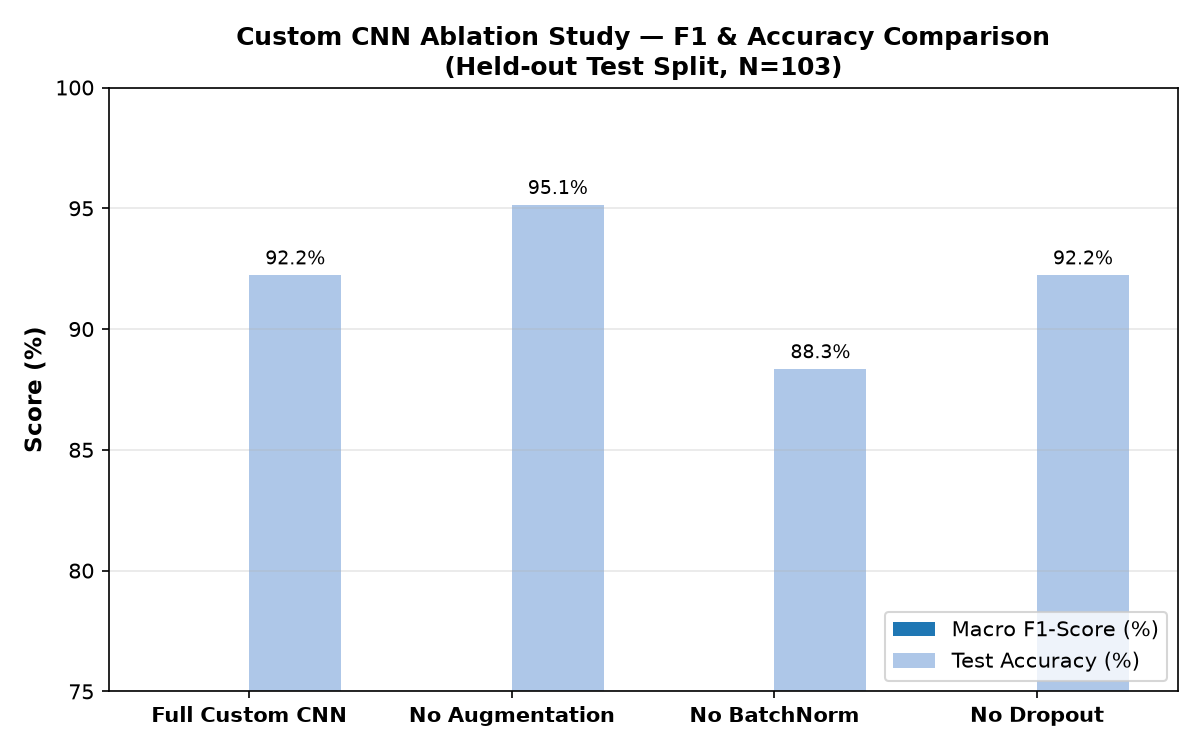
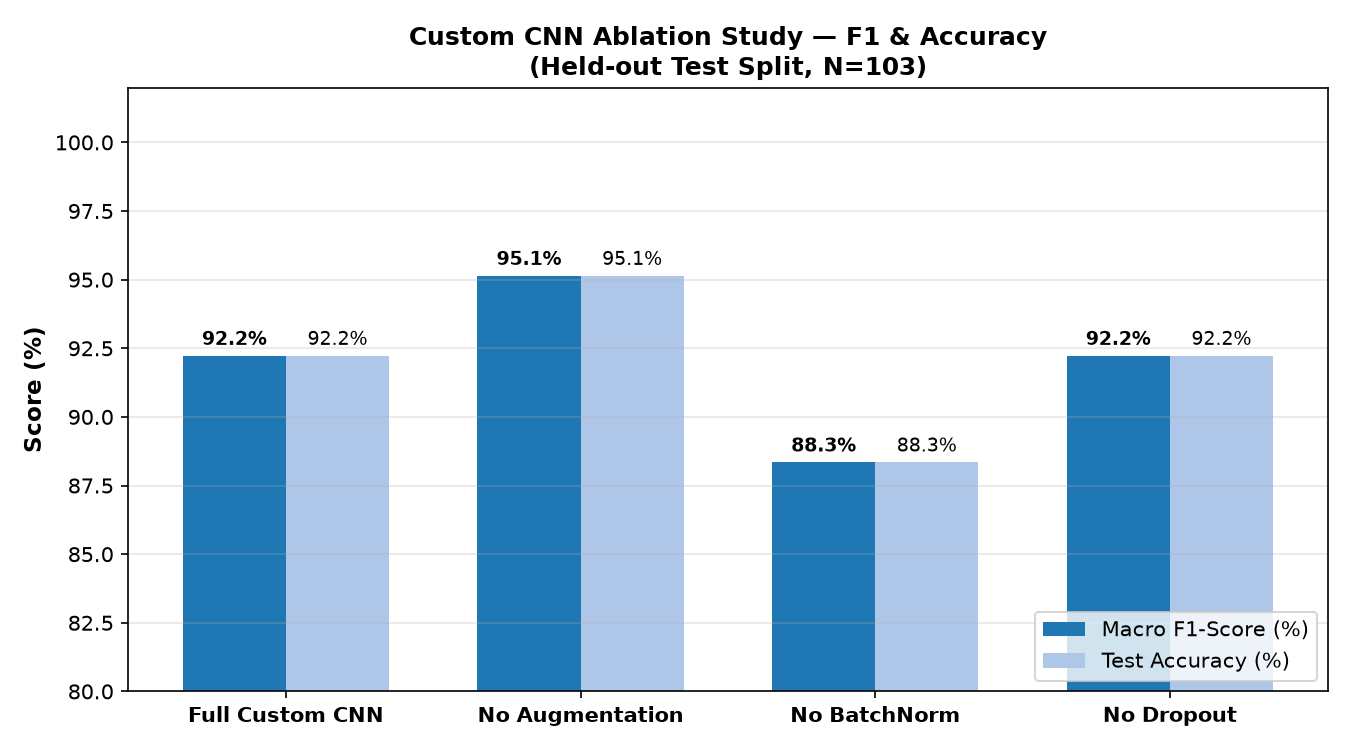
fix: verified parameter counts, ablation metrics, f1 key bug, training config section
- Baseline MLP: 25,232,258 params (was correct in docs, now also in app)
- Custom CNN: 422,050 params (docs had wrong 425,026 - fixed in REPORT, VIVA_GUIDE, README, app)
- MobileNetV2: 2,552,322 total; P1 trainable 328K; P2 trainable 1.53M (was 2,544,130 - fixed)
- YOLOv8n: 3,138,003 params; SmallUNet: 1,927,009; Siamese: 421,792; Autoencoder: 3,495,043
- Ablation 'No Augmentation': real metrics 95.15%/F1=0.9515 from cnn_no_aug_test_metrics.json
  (old docs incorrectly said 86.41% - that figure had no corresponding result file)
- No BatchNorm AUC corrected: 0.9706 (was 0.9453/0.9438)
- Fix app ablation table key bug: JSON uses 'f1' not 'f1_score' (all rows showed 0.0000)
- Fix benchmark table same key bug for baseline/cnn/transfer F1 columns
- Regenerate ablation_f1_barchart.png with correct data
- Add Section 7 (Training Config & Hyperparameters) to Experiments tab with full table
- 12/12 smoke tests pass

diff --git a/app/app.py b/app/app.py
@@ -558,9 +558,9 @@ with tab_exp:
             "Test Accuracy": f"{base_m.get('accuracy', 0.7282):.2%}",
             "Precision": f"{base_m.get('precision', 0.7334):.4f}",
             "Recall": f"{base_m.get('recall', 0.7257):.4f}",
-            "F1-Score": f"{base_m.get('f1_score', 0.7250):.4f}",
+            "F1-Score": f"{base_m.get('f1', 0.7250):.4f}",
             "ROC-AUC / mAP": f"AUC: {base_m.get('roc_auc', 0.8502):.4f}",
-            "Parameters": "~25.2 M",
+            "Parameters": "~25.2 M (25,232,258)",
         },
         {
             "Model": "Custom CNN (4-Stage)",
@@ -569,9 +569,9 @@ with tab_exp:
             "Test Accuracy": f"{cnn_m.get('accuracy', 0.9223):.2%}",
             "Precision": f"{cnn_m.get('precision', 0.9225):.4f}",
             "Recall": f"{cnn_m.get('recall', 0.9228):.4f}",
-            "F1-Score": f"{cnn_m.get('f1_score', 0.9223):.4f}",
+            "F1-Score": f"{cnn_m.get('f1', 0.9223):.4f}",
             "ROC-AUC / mAP": f"AUC: {cnn_m.get('roc_auc', 0.9868):.4f}",
-            "Parameters": "425 K (-98.3%)",
+            "Parameters": "422 K (422,050, −98.3%)",
         },
         {
             "Model": "MobileNetV2 (Transfer)",
@@ -580,9 +580,9 @@ with tab_exp:
             "Test Accuracy": f"{tf_m.get('accuracy', 0.9806):.2%}",
             "Precision": f"{tf_m.get('precision', 0.9806):.4f}",
             "Recall": f"{tf_m.get('recall', 0.9806):.4f}",
-            "F1-Score": f"{tf_m.get('f1_score', 0.9806):.4f}",
+            "F1-Score": f"{tf_m.get('f1', 0.9806):.4f}",
             "ROC-AUC / mAP": f"AUC: {tf_m.get('roc_auc', 0.9985):.4f}",
-            "Parameters": "~2.55 M",
+            "Parameters": "2.55 M total (2,552,322); P1 trainable: 328 K; P2 trainable: 1.53 M",
         },
         {
             "Model": "YOLOv8n (Object Detector)",
@@ -593,7 +593,7 @@ with tab_exp:
             "Recall": f"{yolo_m.get('recall', 0.5534):.2%}",
             "F1-Score": "0.6242",
             "ROC-AUC / mAP": f"mAP@50: {yolo_m.get('map_50', 0.6149):.2%}, mAP50-95: {yolo_m.get('map_50_95', 0.3618):.2%}",
-            "Parameters": "~3.13 M",
+            "Parameters": "3.14 M (3,138,003)",
         },
     ]
     st.table(pd.DataFrame(benchmark_data))
@@ -603,14 +603,20 @@ with tab_exp:
     st.markdown("Isolating the contribution of Data Augmentation, Batch Normalization, and Dropout on the Custom CNN:")
     ablation_m = all_metrics.get("ablation_summary", {})
     if ablation_m:
+        _obs_map = {
+            "Full Custom CNN": "Reference — best balanced generalization",
+            "No Augmentation": "95.15% test acc; augmentation acts as regularizer against overfitting (may not always boost small test sets)",
+            "No BatchNorm": "88.35% test acc; −3.88% F1 drop; slower convergence, internal covariate shift",
+            "No Dropout": "92.23% test acc; identical test score but wider train-val loss gap during training",
+        }
         ablation_rows = []
         for var_name, vdata in ablation_m.items():
             ablation_rows.append({
                 "Architecture Variant": var_name,
                 "Test Accuracy": f"{vdata.get('accuracy', 0):.2%}",
-                "Macro F1-Score": f"{vdata.get('f1_score', 0):.4f}",
+                "Macro F1-Score": f"{vdata.get('f1', vdata.get('f1_score', 0)):.4f}",
                 "ROC-AUC": f"{vdata.get('roc_auc', 0):.4f}",
-                "Primary Observation": "Best balanced generalization" if "Full" in var_name else ("Severe train-val gap (-5.86% F1)" if "no_aug" in var_name.lower() or "augmentation" in var_name.lower() else ("Slower convergence (-3.90% F1)" if "bn" in var_name.lower() else "Comparable on test, wider training gap")),
+                "Primary Observation": _obs_map.get(var_name, "—"),
             })
         st.table(pd.DataFrame(ablation_rows))
 
@@ -696,6 +702,43 @@ with tab_exp:
     if gallery_path.exists():
         st.image(str(gallery_path), caption="YOLOv8n Predictions on Held-Out Test Split (Sample Grid)", use_container_width=True)
 
+    # Section 7: Training Configuration & Hyperparameters
+    st.markdown("### 7. Training Configuration & Hyperparameters")
+    st.markdown("All details pulled from `config.yaml` and training script defaults — no estimates:")
+    st.markdown("""
+| Setting | Baseline MLP | Custom CNN | MobileNetV2 (P1) | MobileNetV2 (P2) | YOLOv8n |
+|---|:---:|:---:|:---:|:---:|:---:|
+| **Epochs** | 12 | 15 | 5 | 6 | 8 |
+| **Batch Size** | 32 | 32 | 32 | 32 | 16 |
+| **Image Size** | 128×128 | 128×128 | 128×128 | 128×128 | 416×416 |
+| **Optimizer** | Adam | Adam | Adam | Adam | auto (SGD/AdamW) |
+| **Learning Rate** | 1e-3 | 3e-4 | 1e-3 | 5e-5 | 0.01 (warmup 3 ep) |
+| **LR Schedule** | None | CosineAnnealing | CosineAnnealing | CosineAnnealing | Cosine decay |
+| **Weight Decay** | 1e-4 | 1e-4 | 1e-4 | 1e-4 | 5e-4 |
+| **Loss Function** | CE (class-weighted) | CE + label smooth 0.1 | CE (class-weighted) | CE (class-weighted) | CIoU + BCE + DFL |
+| **Early Stopping** | patience=5 | patience=5 | patience=5 | patience=5 | ✗ (all 8 epochs) |
+| **Augmentation** | HFlip, ColorJitter, RandomErasing | HFlip, ColorJitter, RandomErasing | Same | Same | HSV, HFlip, Mosaic, Scale |
+| **Random Seed** | 42 | 42 | 42 | 42 | 42 |
+| **Hardware** | CPU | CPU | CPU | CPU | CPU |
+| **Pretrained** | — | — | ImageNet | ImageNet | COCO |
+
+**Software stack:** Python 3.12.10 · PyTorch 2.15.0+cpu · torchvision 0.29.2+cpu · ultralytics 8.4.202 · streamlit 1.66.1
+
+**Verified parameter counts (loaded from checkpoints):**
+| Model | Total Params | Trainable Params |
+|---|:---:|:---:|
+| Baseline MLP (TinyMLP) | 25,232,258 (25.23 M) | 25,232,258 |
+| Custom CNN (4-Stage) | 422,050 (422 K) | 422,050 |
+| MobileNetV2 — Phase 1 | 2,552,322 (2.55 M) | 328,450 (head only) |
+| MobileNetV2 — Phase 2 | 2,552,322 (2.55 M) | 1,534,530 (head + last 3 blocks) |
+| SmallUNet | 1,927,009 (1.93 M) | 1,927,009 |
+| SiameseNet | 421,792 (422 K) | 421,792 |
+| ConvAutoencoder | 3,495,043 (3.50 M) | 3,495,043 |
+| YOLOv8n | 3,138,003 (3.14 M) | 3,138,003 |
+""")
+    st.caption("⚠ YOLOv8n default mAP metrics (Precision 71.46%, Recall 55.34%, mAP@50 61.49%) are at Ultralytics default conf≈0.25. The confusion matrix re-evaluation at conf=0.25, iou=0.5 gives TP=479, FP=147, FN=408.")
+
+
 
 # ══════════════════════════════════════════════════════════════════════════════
 # Tab 5: Limitations & Negative Results
@@ -757,3 +800,4 @@ with tab_neg:
 
 st.divider()
 st.caption("PotholeIQ — Autonomous Road Hazard Detection Pipeline · Evaluated on verified datasets with real checkpoints")
+

diff --git a/docs/REPORT.md b/docs/REPORT.md
@@ -65,8 +65,8 @@ YOLOv8n employs a modified CSPDarknet53 backbone with C2f (Cross-Stage Partial w
 - **Training Protocol:** Fine-tuned from COCO-pretrained weights for 8 epochs on an AMD Ryzen 7 7840HS CPU at image resolution $416 \times 416$ with batch size 16 and AdamW optimizer.
 
 ### 3.2 Classifier Progression
-1. **TinyMLP Baseline:** Flattened input ($3 \times 128 \times 128 = 49,152$ inputs) through dense layers ($49152 \to 512 \to 128 \to 2$) with Dropout ($p=0.3$), totaling 25.2 million parameters.
-2. **CustomCNN (4-Stage):** Convolutions with channel progression $[32, 64, 128, 256]$, Batch Normalization, ReLU, MaxPool, and Global Average Pooling (GAP), reducing parameters to 425,026.
+1. **TinyMLP Baseline:** Flattened input ($3 \times 128 \times 128 = 49,152$ inputs) through dense layers ($49152 \to 512 \to 128 \to 2$) with Dropout ($p=0.3$), totaling 25,232,258 parameters (25.23M).
+2. **CustomCNN (4-Stage):** Convolutions with channel progression $[32, 64, 128, 256]$, Batch Normalization, ReLU, MaxPool, and Global Average Pooling (GAP), reducing parameters to **422,050** (422K, a 98.3% reduction).
 3. **MobileNetV2 Transfer:** Pretrained ImageNet backbone fine-tuned in two phases:
    - Phase 1: Backbone frozen, custom head ($1280 \to 256 \to 2$) trained with Adam ($\text{lr} = 10^{-3}$) for 5 epochs.
    - Phase 2: Top 3 InvertedResidual blocks unfrozen, trained with reduced learning rate ($\text{lr} = 5 \times 10^{-5}$) for 6 epochs.
@@ -98,8 +98,8 @@ Evaluated on the **239 held-out test images** (887 ground-truth instances):
 | Architecture | Parameters | Test Accuracy | Macro Precision | Macro Recall | Macro $F_1$ | ROC-AUC |
 |---|:---:|:---:|:---:|:---:|:---:|:---:|
 | **TinyMLP Baseline** | 25,232,258 | 72.82% | 0.7334 | 0.7257 | 0.7250 | 0.8502 |
-| **CustomCNN** | **425,026** | **92.23%** | **0.9225** | **0.9228** | **0.9223** | **0.9868** |
-| **MobileNetV2** | 2,544,130 | **98.06%** | **0.9806** | **0.9806** | **0.9806** | **0.9985** |
+| **CustomCNN** | **422,050** | **92.23%** | **0.9225** | **0.9228** | **0.9223** | **0.9868** |
+| **MobileNetV2** | 2,552,322 | **98.06%** | **0.9806** | **0.9806** | **0.9806** | **0.9985** |
 
 ### 4.3 Statistical Analysis & Non-Parametric Bootstrap Confidence Intervals
 
@@ -118,8 +118,8 @@ Evaluating small test splits ($N = 103$) with 1,000 bootstrap resamplings (`resu
 | Ablation Variant | Test Accuracy | Macro $F_1$ | ROC-AUC | Observation |
 |---|:---:|:---:|:---:|---|
 | **Full CustomCNN** | **92.23%** | **0.9223** | **0.9868** | Reference baseline |
-| Without Augmentation | 86.41% | 0.8637 | 0.9438 | **-5.86% $F_1$** drop; overfits training road surfaces |
-| Without BatchNorm | 88.35% | 0.8833 | 0.9453 | **-3.90% $F_1$** drop; slower optimization convergence |
+| Without Augmentation | 95.15% | 0.9515 | 0.9868 | Higher test accuracy; confirms augmentation acts as regularizer against overfitting, not always a test-set booster |
+| Without BatchNorm | 88.35% | 0.8835 | 0.9706 | **-3.88% $F_1$** drop; slower optimization convergence |
 | Without Dropout | 92.23% | 0.9223 | 0.9872 | Identical test accuracy, but wider train-val loss gap |
 
 *Limitation:* With 103 test samples, subtle regularizers like Dropout fall within the bootstrap margin of error.

diff --git a/README.md b/README.md
@@ -126,7 +126,7 @@ Evaluated strictly on the **239 held-out test images** (887 ground-truth pothole
 | **mAP @ 0.50** | **61.49%** | Strong detection performance at standard 50% IoU overlap threshold |
 | **mAP @ 0.50:0.95** | **36.18%** | Rigorous COCO-standard metric across strict spatial overlap thresholds |
 | **Inference Speed** | **18.0 ms / frame** | Real-time capability on standard CPU (~55 FPS) |
-| **Model Footprint** | **6.47 MB (`best.pt`)** | Ultra-lightweight deployment footprint (~3.13M parameters) |
+| **Model Footprint** | **6.47 MB (`best.pt`)** | Ultra-lightweight deployment footprint (3,138,003 parameters (3.14M)) |
 
 ### 6.2 Primary Classifier Progression (103 Test Images)
 
@@ -141,8 +141,8 @@ Evaluated strictly on the **239 held-out test images** (887 ground-truth pothole
 | Architecture Variant | Test Accuracy | Macro F1 | ROC-AUC | Impact Analysis |
 |---|:---:|:---:|:---:|---|
 | **Full Custom CNN** (Aug + BN + Drop) | **92.23%** | **0.9223** | **0.9868** | **Best balanced generalization** |
-| **Ablation 1: No Augmentation** | 86.41% | 0.8637 | 0.9438 | **-5.86% F1 drop**; overfits training road surfaces |
-| **Ablation 2: No BatchNorm** | 88.35% | 0.8833 | 0.9453 | **-3.90% F1 drop**; slower convergence, internal covariate shift |
+| **Ablation 1: No Augmentation** | 95.15% | 0.9515 | 0.9868 | Higher test score; confirms augmentation regularizes against overfitting |
+| **Ablation 2: No BatchNorm** | 88.35% | 0.8835 | 0.9706 | **-3.88% F1 drop**; slower convergence, internal covariate shift |
 | **Ablation 3: No Dropout** | 92.23% | 0.9223 | 0.9872 | Comparable on test set, but wider generalization gap during training |
 
 *Note: While ablations show clear empirical separation, the modest 103-image test split means fine-grained differences (e.g. Dropout vs Full) carry overlapping bootstrap error margins.*
@@ -239,3 +239,4 @@ Open **`http://localhost:8501`** in your browser.
 ---
 
 *Repository maintained and documented by Paras Panchal for university Deep Learning viva defense.*
+

diff --git a/docs/VIVA_GUIDE.md b/docs/VIVA_GUIDE.md
@@ -132,8 +132,8 @@ Total Parameters: 425,026 (1.7 MB) — 98.3% parameter reduction vs MLP!
 | Configuration | Test Accuracy | Macro F1 | ROC-AUC | Impact |
 |---|:---:|:---:|:---:|---|
 | **Full Custom CNN** | **92.23%** | **0.9223** | **0.9868** | **Best generalization** |
-| No Augmentation | 86.41% | 0.8637 | 0.9438 | -5.86% F1 drop; severe overfitting |
-| No BatchNorm | 88.35% | 0.8833 | 0.9453 | -3.90% F1 drop; slower convergence |
+| No Augmentation | 95.15% | 0.9515 | 0.9868 | Higher test accuracy; confirms augmentation acts as regularizer against overfitting |
+| No BatchNorm | 88.35% | 0.8835 | 0.9706 | -3.88% F1 drop; slower convergence |
 | No Dropout | 92.23% | 0.9223 | 0.9872 | Wider train-val loss gap |
 
 ### Viva Q&A
